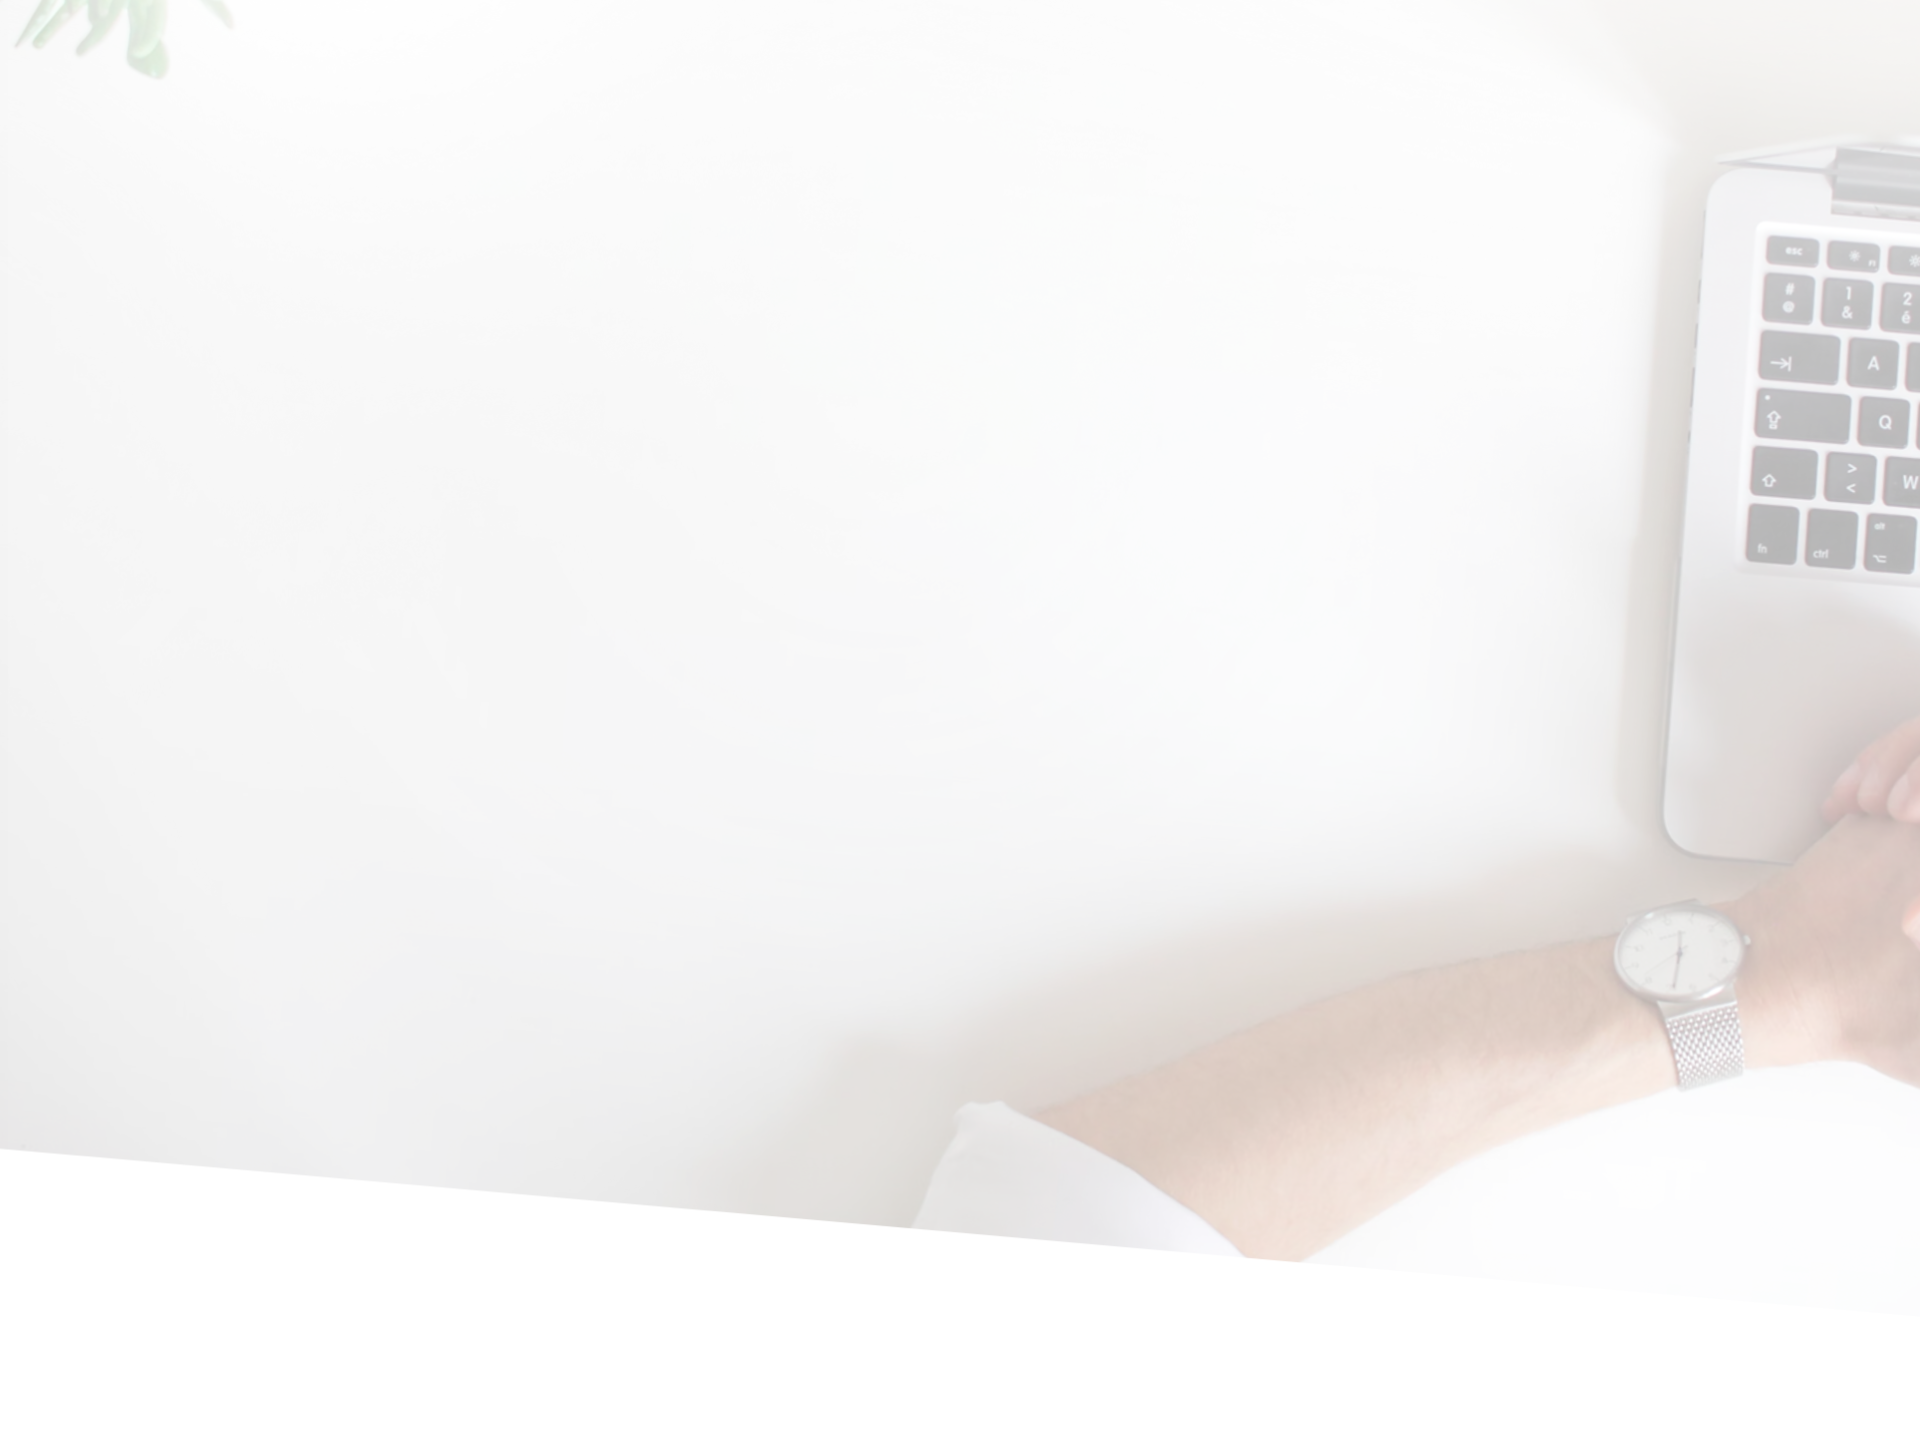
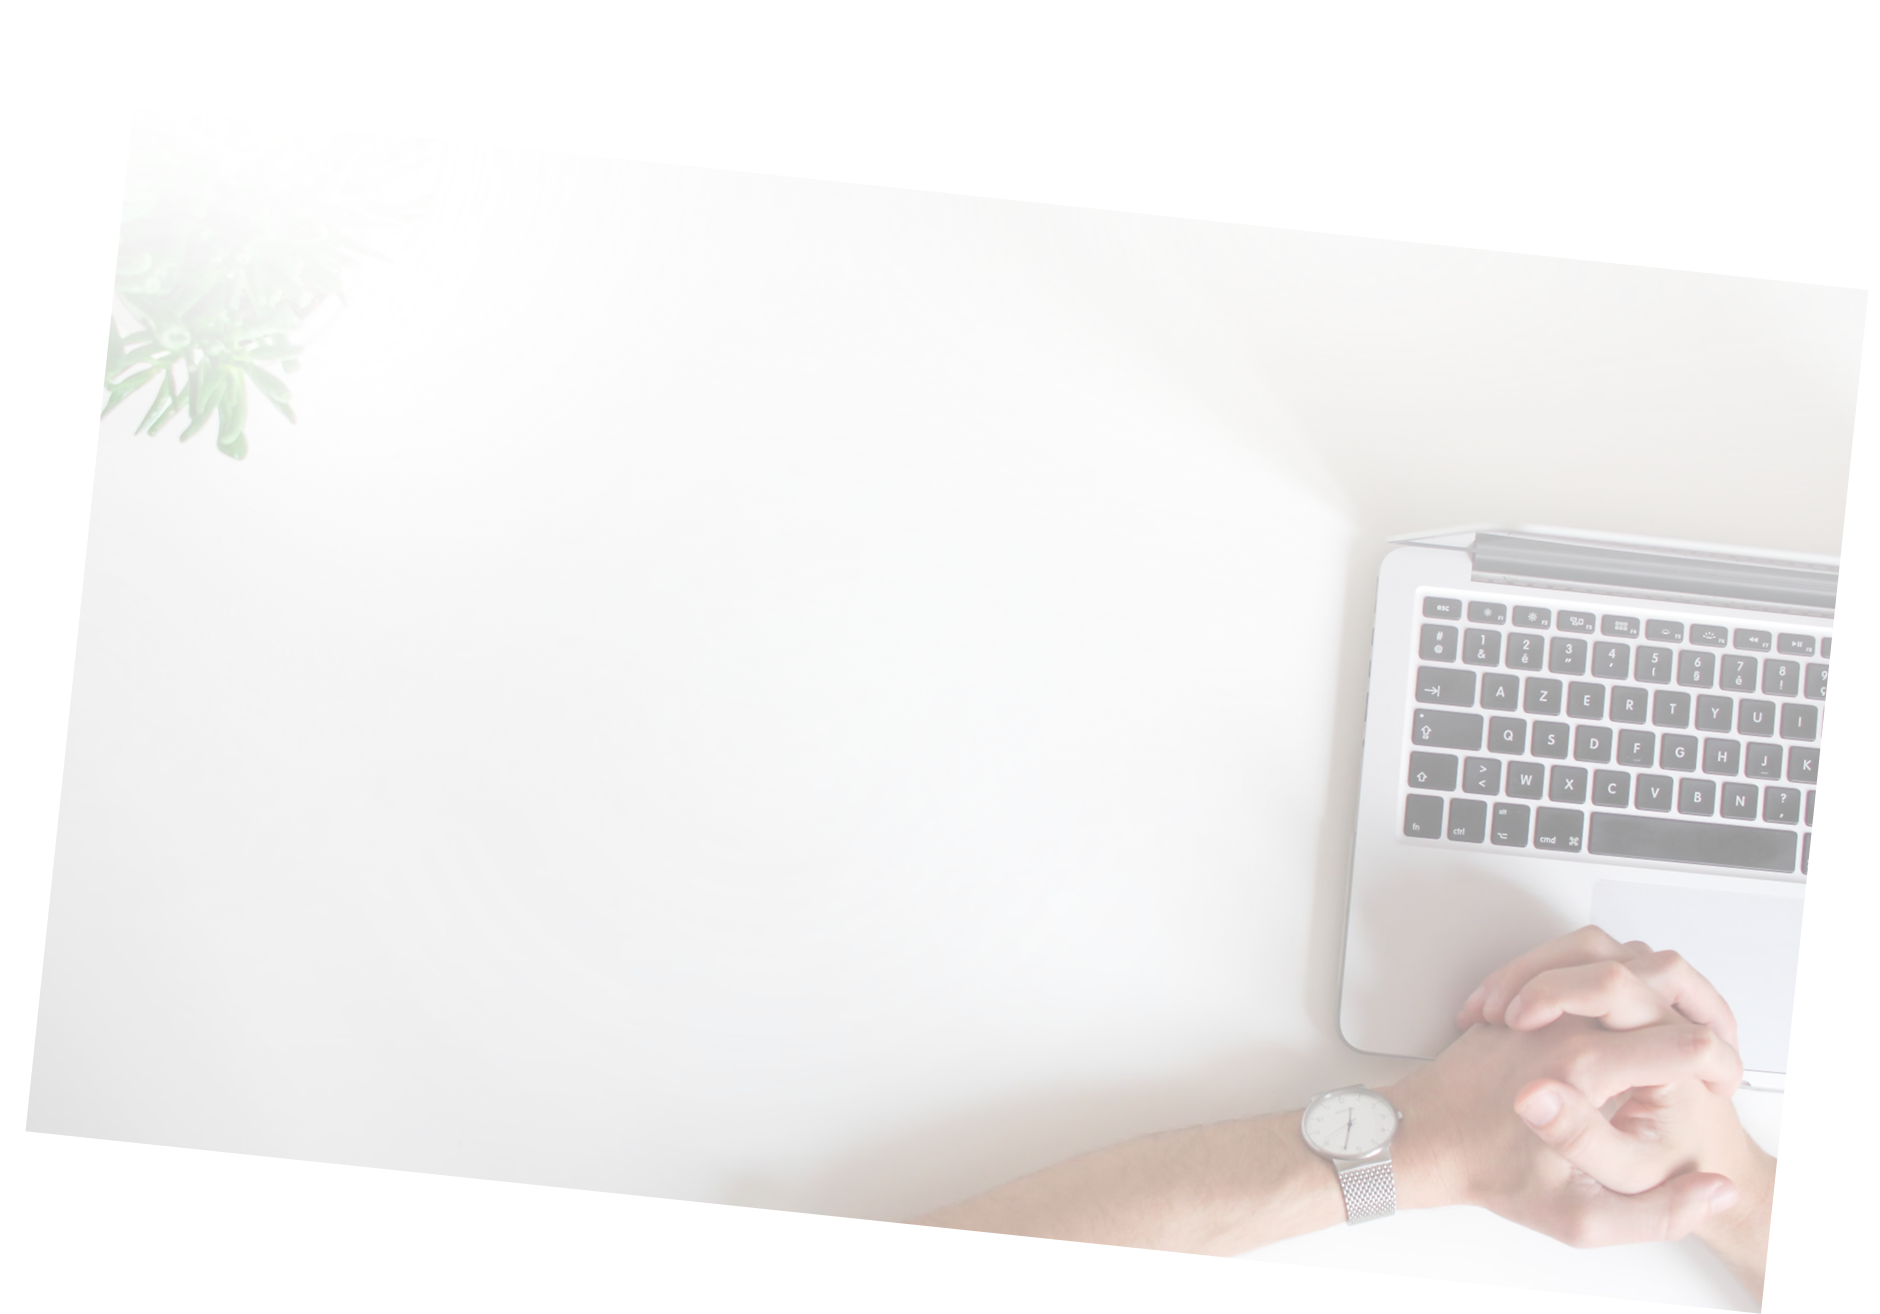
Mobile View Enhancement

diff --git a/src/assets/styles/contactus.scss b/src/assets/styles/contactus.scss
@@ -20,7 +20,7 @@
     position: absolute;
     z-index: 3;
 
-    &--1 {
+    &--1 { 
       top: -5%;
       right: -135%;
 
@@ -491,7 +491,7 @@
     }
 
     .--bg-1 {
-      padding: 150px 0 100px 0;
+      padding: 150px 0 70px 0;
       .header-shapes {
         &::before {
           top: 13vw;
@@ -621,13 +621,103 @@
       }
     }
   }
+
   @media (max-width: 420px) {
-    background: url("../images/contactus/Contact_BG-01.png") top 45vw right -24vw;
-    background-size: 280vw 250vw;
+    background: url("../images/contactus/Contact_BG-01.png") top -72vw right -108vw;
+    background-size: 430vw 330vw;
     background-repeat: no-repeat;
     background-attachment: scroll;
     transition: background 0.3s;
     image-rendering: -webkit-optimize-contrast;
+
+    .svg {
+      position: absolute;
+      z-index: 3;
+  
+      &--1 { 
+        top: -4%;
+        right: -137%;
+  
+        width: 200vw;
+      }
+    }
+    
+    .--bg-2 {
+      padding: 45.5vw 0 0 0;
+      form {
+        margin-left: 0;
+        width: 90%;
+        margin: 0 auto;
+        label {
+          text-align: left !important;
+        }
+        .--btn-send {
+          margin: 5vw auto 0 auto;
+        }
+
+        .btn-send {
+          border: none;
+          width: 200px;
+          height: 60px;
+          transform: translateX(35.5%);
+          color: #283A97;
+          letter-spacing: 2px;
+          font-size: 10px;
+          font-family: "gill sans", sans-serif !important;
+          font-weight: 750;
+          margin-top: 30px;
+        }
+      }
+
+      h3.--title {
+        font-size: 17px;
+        line-height: 1.6;
+      }
+    }
+    .--bg-1 {
+      .--max {
+        max-width: 86%;
+        img {
+          height: 25vw;
+          width: 25vw;
+        }
+
+        .--image {
+          width: 80vw;
+          top: 6%;
+          left: -48%;
+          position: absolute;
+        }
+
+        h1.--title {
+          font-size: 6vw;
+          color: #283a97;
+          margin: -8vw 0 10.5vw 0;
+        }
+      }
+    }
+  }
+
+  @media (max-width: 412px) {
+    background: url("../images/contactus/Contact_BG-01.png") top -70vw right -102.8vw;
+    background-size: 410vw 330vw;
+    background-repeat: no-repeat;
+    background-attachment: scroll;
+    transition: background 0.3s;
+    image-rendering: -webkit-optimize-contrast;
+
+    .svg {
+      position: absolute;
+      z-index: 3;
+  
+      &--1 { 
+        top: -3.5%;
+        right: -137%;
+  
+        width: 200vw;
+      }
+    }
+    
     .--bg-2 {
       padding: 45.5vw 0 0 0;
       form {
@@ -685,12 +775,25 @@
   }
 
   @media (max-width: 393px) {
-    background: url("../images/contactus/Contact_BG-01.png") top 63vw right -26vw;
-    background-size: 280vw 250vw;
+    background: url("../images/contactus/Contact_BG-01.png") top -127vw right -125.5vw;
+    background-size: 500vw 420vw;
     background-repeat: no-repeat;
     background-attachment: scroll;
     transition: background 0.3s;
     image-rendering: -webkit-optimize-contrast;
+
+    .svg {
+      position: absolute;
+      z-index: 3;
+  
+      &--1 { 
+        top: -3%;
+        right: -135%;
+  
+        width: 200vw;
+      }
+    }
+
     .--bg-2 {
       padding: 45.5vw 0 0 0;
       form {
@@ -752,12 +855,25 @@
 
 
   @media (max-width: 390px) {
-    background: url("../images/contactus/Contact_BG-01.png") top 65vw right -24.5vw;
-    background-size: 280vw 250vw;
+    background: url("../images/contactus/Contact_BG-01.png") top -127vw right -125.5vw;
+    background-size: 500vw 420vw;
     background-repeat: no-repeat;
     background-attachment: scroll;
     transition: background 0.3s;
     image-rendering: -webkit-optimize-contrast;
+
+    .svg {
+      position: absolute;
+      z-index: 3;
+  
+      &--1 { 
+        top: -3%;
+        right: -135%;
+  
+        width: 200vw;
+      }
+    }
+
     .--bg-2 {
       padding: 45.5vw 0 0 0;
       form {
@@ -818,12 +934,25 @@
   }
 
   @media (max-width: 375px) {
-    background: url("../images/contactus/Contact_BG-01.png") top 68vw right -24vw;
-    background-size: 280vw 250vw;
+    background: url("../images/contactus/Contact_BG-01.png") top -108vw right -113vw;
+    background-size: 450vw 400vw;
     background-repeat: no-repeat;
     background-attachment: scroll;
     transition: background 0.3s;
     image-rendering: -webkit-optimize-contrast;
+
+    .svg {
+      position: absolute;
+      z-index: 3;
+  
+      &--1 { 
+        top: -3.5%;
+        right: -135%;
+  
+        width: 200vw;
+      }
+    }
+
     .--bg-2 {
       padding: 45.5vw 0 0 0;
       form {
@@ -884,12 +1013,25 @@
   }
 
   @media (max-width: 360px) {
-    background: url("../images/contactus/Contact_BG-01.png") top 40vw right -26vw;
-    background-size: 300vw 300vw;
+    background: url("../images/contactus/Contact_BG-01.png") top -105vw right -113vw;
+    background-size: 450vw 400vw;
     background-repeat: no-repeat;
     background-attachment: scroll;
     transition: background 0.3s;
     image-rendering: -webkit-optimize-contrast;
+
+    .svg {
+      position: absolute;
+      z-index: 3;
+  
+      &--1 { 
+        top: -3.5%;
+        right: -135%;
+  
+        width: 200vw;
+      }
+    }
+
     .--bg-2 {
       padding: 45.5vw 0 0 0;
       form {
@@ -950,12 +1092,25 @@
   }
 
   @media (max-width: 320px) {
-    background: url("../images/contactus/Contact_BG-01.png") top 75vw right -23vw;
-    background-size: 270vw 270vw;
+    background: url("../images/contactus/Contact_BG-01.png") top -93vw right -113vw;
+    background-size: 450vw 400vw;
     background-repeat: no-repeat;
     background-attachment: scroll;
     transition: background 0.3s;
     image-rendering: -webkit-optimize-contrast;
+
+    .svg {
+      position: absolute;
+      z-index: 3;
+  
+      &--1 { 
+        top: -3.5%;
+        right: -135%;
+  
+        width: 200vw;
+      }
+    }
+    
     .--bg-2 {
       padding: 45.5vw 0 0 0;
       form {
